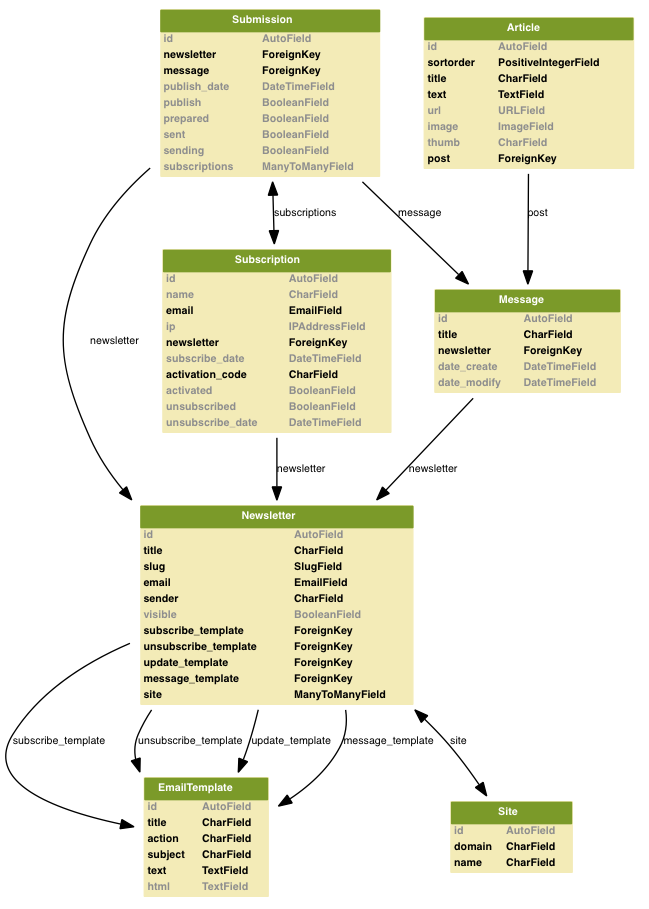
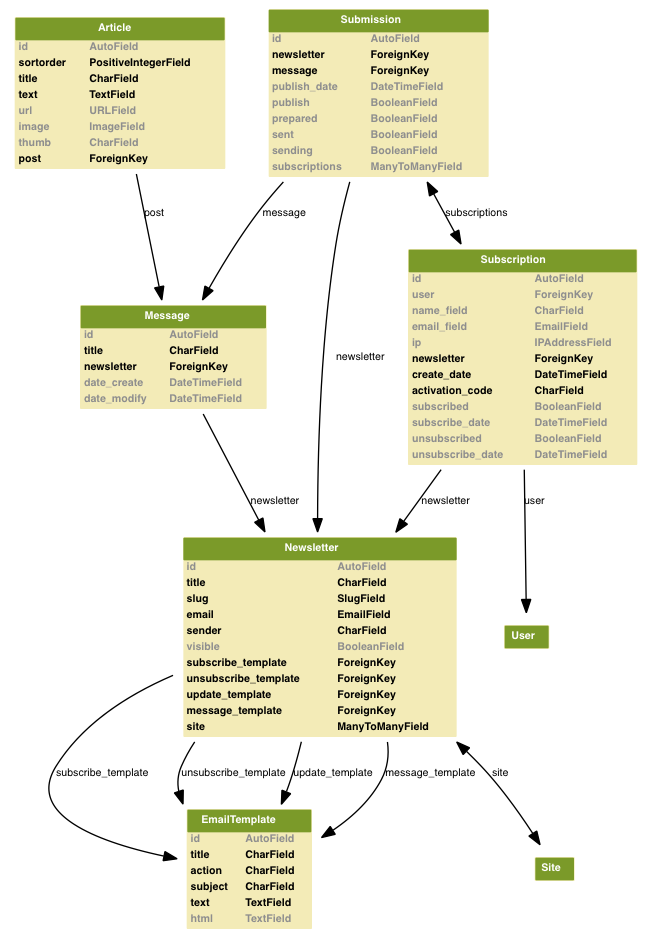
Fixed a rather large number of bugs and other things. Unit tests AND Selenium tests for admin now pass.

diff --git a/seleniumtests/secondeverything.html b/seleniumtests/secondeverything.html
@@ -93,12 +93,12 @@
 </tr>
 <tr>
 	<td>type</td>
-	<td>id_name</td>
+	<td>id_name_field</td>
 	<td>Test subscription 2</td>
 </tr>
 <tr>
 	<td>type</td>
-	<td>id_email</td>
+	<td>id_email_field</td>
 	<td>drbob@dokterbob.net</td>
 </tr>
 <tr>
@@ -108,7 +108,7 @@
 </tr>
 <tr>
 	<td>click</td>
-	<td>id_activated</td>
+	<td>id_subscribed</td>
 	<td></td>
 </tr>
 <tr>
@@ -124,51 +124,6 @@
 <tr>
 	<td>verifyTextPresent</td>
 	<td>added successfully</td>
-	<td></td>
-</tr>
-<tr>
-	<td>clickAndWait</td>
-	<td>link=Add subscription</td>
-	<td></td>
-</tr>
-<tr>
-	<td>assertTitle</td>
-	<td>Add subscription | Django site admin</td>
-	<td></td>
-</tr>
-<tr>
-	<td>type</td>
-	<td>id_name</td>
-	<td>Test subscription 3</td>
-</tr>
-<tr>
-	<td>type</td>
-	<td>id_email</td>
-	<td>drbob@dokterbob.net</td>
-</tr>
-<tr>
-	<td>select</td>
-	<td>id_newsletter</td>
-	<td>label=Test newsletter</td>
-</tr>
-<tr>
-	<td>click</td>
-	<td>id_activated</td>
-	<td></td>
-</tr>
-<tr>
-	<td>clickAndWait</td>
-	<td>_save</td>
-	<td></td>
-</tr>
-<tr>
-	<td>assertTitle</td>
-	<td>Add subscription | Django site admin</td>
-	<td></td>
-</tr>
-<tr>
-	<td>assertTextPresent</td>
-	<td>already exists</td>
 	<td></td>
 </tr>
 <tr>

diff --git a/newsletter/templates/admin/newsletter/subscription/confirmimportform.html b/newsletter/templates/admin/newsletter/subscription/confirmimportform.html
@@ -9,7 +9,7 @@
   </a>
    &rsaquo; 
    <a href="../../../">
-     {% trans "Mailinglist" %}
+     {% trans "Newsletter" %}
   </a>
   &rsaquo; 
   <a href="../../">

diff --git a/newsletter/templates/admin/newsletter/subscription/importform.html b/newsletter/templates/admin/newsletter/subscription/importform.html
@@ -9,7 +9,7 @@
   </a>
    &rsaquo; 
    <a href="../../">
-     {% trans "Mailinglist" %}
+     {% trans "Newsletter" %}
   </a>
   &rsaquo; 
   <a href="../">

diff --git a/newsletter/admin_forms.py b/newsletter/admin_forms.py
@@ -11,16 +11,16 @@ from django.conf import settings
 from models import *
     
 def make_subscription(newsletter, email, name=None):
-    if Subscription.objects.filter(newsletter__id=newsletter.id, subscribed=True, email__exact=email).count():
+    if Subscription.objects.filter(newsletter__id=newsletter.id, subscribed=True, email_field__exact=email).count():
         return None
         
     addr = Subscription(subscribed=True)
     addr.newsletter = newsletter
     
-    addr.email = email
+    addr.email_field = email
     
     if name:
-        addr.name = name
+        addr.name_field = name
     
     return addr
 
@@ -28,7 +28,7 @@ def check_email(email, ignore_errors=False):
     if settings.DEBUG:
         logging.debug("Checking e-mail address %s" % email)
 
-    email_length = Subscription._meta.get_field_by_name('email')[0].max_length
+    email_length = Subscription._meta.get_field_by_name('email_field')[0].max_length
 
     if len(email) <= email_length or ignore_errors:
         return email[:email_length]
@@ -39,7 +39,7 @@ def check_name(name, ignore_errors=False):
     if settings.DEBUG:
         logging.debug("Checking name: %s" % name)
 
-    name_length = Subscription._meta.get_field_by_name('name')[0].max_length
+    name_length = Subscription._meta.get_field_by_name('name_field')[0].max_length
     if len(name) <= name_length or ignore_errors:        
         return name[:name_length]
     else:

diff --git a/newsletter/admin.py b/newsletter/admin.py
@@ -173,8 +173,7 @@ class ArticleInline(admin.StackedInline):
         
 class MessageAdmin(admin.ModelAdmin):
     class Media:
-        pass
-        #js = ('/static/newsletter/admin/tiny_mce/tiny_mce.js','/static/newsletter/admin/tiny_mce/textareas.js')
+        js = ('/static/newsletter/admin/tiny_mce/tiny_mce.js','/static/newsletter/admin/tiny_mce/textareas.js')
         
     save_as = True
     list_display = ('admin_newsletter', 'title', 'admin_preview', 'date_create', 'date_modify')

diff --git a/README.rst b/README.rst
@@ -31,6 +31,5 @@ Usage
 
 TODO
 -----
-* Automatically manage unsubscription and dates for tracking.
 * Remove links from one object to another in admin. This is confusing.
 * Write tests for: template syntax checking, web subscription of auth users, ordering of articles in a message.
